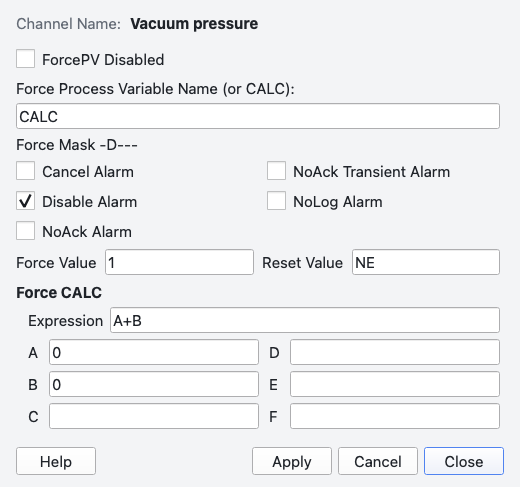
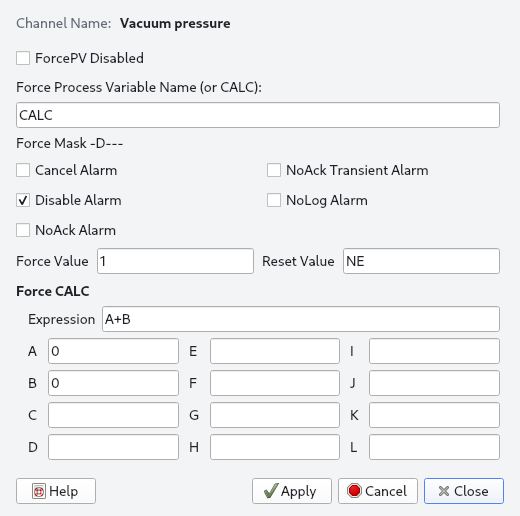
Updated after a full release audit done on GPT 6.1 Sol Ultra

diff --git a/qtalh/services/channel_access.cc b/qtalh/services/channel_access.cc
@@ -148,11 +148,11 @@ void ChannelAccess::deliverNumber(Channel* c, double value) {
       callback(value);
   }
 }
-void ChannelAccess::replayNumber(Channel* c, const void* tag) {
+void ChannelAccess::replayNumber(Channel* c, quint64 input) {
   if (c->cancelled || !c->haveNumber)
     return;
   auto found = std::find_if(c->numbers.begin(), c->numbers.end(),
-                            [&](const auto& n) { return n.tag == tag; });
+                            [&](const auto& n) { return n.id == input; });
   if (found == c->numbers.end())
     return;
   const auto callback = found->callback;
@@ -235,17 +235,18 @@ void ChannelAccess::number(const QString& n, std::function<void(double)> callbac
         auto found = tag ? std::find_if(c->numbers.begin(), c->numbers.end(),
                                         [&](const auto& number) { return number.tag == tag; })
                          : c->numbers.end();
+        const auto input = found == c->numbers.end() ? ++nextSerial : found->id;
         if (found != c->numbers.end())
           found->callback = std::move(callback);
         else
-          c->numbers.push_back({tag, std::move(callback), ++nextSerial});
+          c->numbers.push_back({tag, std::move(callback), input});
         // This input missed the monitor's first event; give it the latest
         // value later, as a new monitor would, not during this call.
-        if (c->haveNumber && tag) {
+        if (c->haveNumber) {
           Callback replay;
           replay.kind = Callback::NumberReplay;
           replay.channel = c->serial;
-          replay.tag = tag;
+          replay.input = input;
           defer(std::move(replay));
         }
         return;
@@ -340,7 +341,7 @@ void ChannelAccess::dispatch() {
     if (!c)
       continue;
     if (callback.kind == Callback::NumberReplay)
-      replayNumber(c, callback.tag);
+      replayNumber(c, callback.input);
     else if (callback.kind == Callback::Connection)
       connected(c, callback.op);
     else if (callback.kind == Callback::Access)

diff --git a/qtalh/tests/test_notifications.cc b/qtalh/tests/test_notifications.cc
@@ -420,6 +420,9 @@ private slots:
     QTest::newRow("excluded-class") << "[!x]*" << "x/pv" << false;
     QTest::newRow("literal-class-slash") << "system[/]pv" << "system/pv" << true;
     QTest::newRow("literal-bracket") << "pv[]]" << "pv]" << true;
+    QTest::newRow("unmatched-bracket") << "pv[" << "pv[" << true;
+    QTest::newRow("initial-hyphen") << "pv[-ab]" << "pv-" << true;
+    QTest::newRow("final-hyphen") << "pv[ab-]" << "pv-" << true;
     QTest::newRow("literal-regex") << "pv.+(1)" << "pv.+(1)" << true;
     QTest::newRow("no-regex-expansion") << "pv.+(1)" << "pvXYZ1" << false;
   }
@@ -439,6 +442,31 @@ private slots:
     NotificationEnvelope e;
     QCOMPARE(p.take(e, 70000), matches);
     if (matches) QCOMPARE(e.alarms[0].state.pv, pv);
+  }
+  void invalidPvWildcards_data() {
+    QTest::addColumn<QString>("pattern");
+    QTest::newRow("letters") << "[z-a]*";
+    QTest::newRow("digits") << "SR:[9-0]";
+  }
+  void invalidPvWildcards() {
+    QFETCH(QString, pattern);
+    auto s = settings();
+    s.subscriptions[0].wildcard = pattern;
+    QVERIFY_THROWS_EXCEPTION(std::runtime_error, validateNotifications(s));
+    QVERIFY_THROWS_EXCEPTION(std::runtime_error,
+                             parseNotifications(QJsonDocument(notificationJson(s)).toJson()));
+    NotificationPolicy policy;
+    configure(policy);
+    QVERIFY_THROWS_EXCEPTION(std::runtime_error, policy.configure(s, "/test.alh"));
+    QCOMPARE(policy.settings().subscriptions[0].wildcard, QString("*"));
+    const auto config = "GROUP NULL root\n$NOTIFY_WEBHOOK ops http://127.0.0.1:1/test\n"
+                        "$NOTIFY MAJOR ops pv=" + pattern + "\nCHANNEL root pv\n";
+    try {
+      parseConfig(config);
+      QFAIL("Invalid wildcard range accepted in configuration");
+    } catch (const ParseError& e) {
+      QVERIFY(QString::fromUtf8(e.what()).startsWith("Line 3: $NOTIFY pv= has an invalid wildcard"));
+    }
   }
   void scopesAndDuplicateReload() {
     NotificationPolicy p;

diff --git a/qtalh/tests/test_ioc.cc b/qtalh/tests/test_ioc.cc
@@ -826,6 +826,48 @@ private slots:
     QTest::qWait(200);
     QCOMPARE(values, before + 1 + tail.size());
   }
+  void numericReplayTracksInputs() {
+    // A queued initial value belongs to its input, even if a later input
+    // reuses the owner tag. Default-owner inputs must receive it too.
+    const auto name = prefix + "force";
+    ChannelAccess driver;
+    driver.prepare(name);
+    QTRY_VERIFY(driver.put(name, 2));
+    ChannelAccess ca;
+    int anchor = 0, owner = 0;
+    QVector<double> initial;
+    ca.number(name, [&](double v) { initial << v; }, &anchor);
+    QTRY_COMPARE(initial, QVector<double>{2});
+    int removed = 0, replacement = 0;
+    ca.number(name, [&](double) { ++removed; }, &owner);
+    ca.cancelNumbers(&owner);
+    ca.number(name, [&](double v) { QCOMPARE(v, 2.0); ++replacement; }, &owner);
+    QCOMPARE(removed, 0);
+    QCOMPARE(replacement, 0);
+    ca.poll();
+    QCOMPARE(removed, 0);
+    QCOMPARE(replacement, 1);
+    ca.cancelNumbers(&owner);
+    int cancelled = 0;
+    ca.number(name, [&](double) { ++cancelled; });
+    ca.cancelNumbers(nullptr);
+    QVector<double> first, second;
+    ca.number(name, [&](double v) { first << v; });
+    ca.number(name, [&](double v) { second << v; });
+    QVERIFY(first.isEmpty());
+    QVERIFY(second.isEmpty());
+    QTRY_COMPARE(first, QVector<double>{2});
+    QTRY_COMPARE(second, QVector<double>{2});
+    QCOMPARE(cancelled, 0);
+    QCOMPARE(ChannelAccessTestAccess::channelCount(ca), 1);
+    ca.cancelNumbers(nullptr);
+    QVERIFY(driver.put(name, 5));
+    QTRY_COMPARE(initial, (QVector<double>{2, 5}));
+    QCOMPARE(first, QVector<double>{2});
+    QCOMPARE(second, QVector<double>{2});
+    QCOMPARE(cancelled, 0);
+    QVERIFY(driver.put(name, 0));
+  }
   void forceInputsShareOneChannel() {
     // Inputs reading one PV share its channel. One added later receives the
     // latest value after the call returns, as a new monitor would.

diff --git a/qtalh/tests/test_pva.cc b/qtalh/tests/test_pva.cc
@@ -891,6 +891,45 @@ private slots:
     output->writer->ready();
     QTRY_COMPARE(output->writer->submitted, QVector<double>{2});
   }
+  void numericReplayTracksInputs() {
+    // A queued initial value belongs to its input, even if a later input
+    // reuses the owner tag. Default-owner inputs must receive it too.
+    PvAccess pv;
+    int anchor = 0, owner = 0;
+    QVector<double> initial;
+    pv.number("pva://input", [&](double v) { initial << v; }, &anchor);
+    auto monitor = provider->channels.back()->monitor;
+    monitor->post(5);
+    QTRY_COMPARE(initial, QVector<double>{5});
+    int removed = 0, replacement = 0;
+    pv.number("pva://input", [&](double) { ++removed; }, &owner);
+    pv.cancelNumbers(&owner);
+    pv.number("pva://input", [&](double v) { QCOMPARE(v, 5.0); ++replacement; }, &owner);
+    QCOMPARE(removed, 0);
+    QCOMPARE(replacement, 0);
+    QTest::qWait(50);
+    QCOMPARE(removed, 0);
+    QCOMPARE(replacement, 1);
+    pv.cancelNumbers(&owner);
+    int cancelled = 0;
+    pv.number("pva://input", [&](double) { ++cancelled; });
+    pv.cancelNumbers(nullptr);
+    QVector<double> first, second;
+    pv.number("pva://input", [&](double v) { first << v; });
+    pv.number("pva://input", [&](double v) { second << v; });
+    QVERIFY(first.isEmpty());
+    QVERIFY(second.isEmpty());
+    QTRY_COMPARE(first, QVector<double>{5});
+    QTRY_COMPARE(second, QVector<double>{5});
+    QCOMPARE(cancelled, 0);
+    QCOMPARE(provider->channels.size(), size_t(1));
+    pv.cancelNumbers(nullptr);
+    monitor->post(6);
+    QTRY_COMPARE(initial, (QVector<double>{5, 6}));
+    QCOMPARE(first, QVector<double>{5});
+    QCOMPARE(second, QVector<double>{5});
+    QCOMPARE(cancelled, 0);
+  }
   void forceInputsShareOneChannel() {
     // Inputs reading one PV share its channel. One added later receives the
     // latest value after the call returns, as a new monitor would.

diff --git a/qtalh/services/pv_access.cc b/qtalh/services/pv_access.cc
@@ -628,19 +628,20 @@ void PvAccess::number(const QString& n, std::function<void(double)> callback, co
       auto found = tag ? std::find_if(c->numbers.begin(), c->numbers.end(),
                                       [&](const auto& number) { return number.tag == tag; })
                        : c->numbers.end();
+      const auto input = found == c->numbers.end() ? ++nextId : found->id;
       if (found != c->numbers.end())
         found->callback = std::move(callback);
       else
-        c->numbers.push_back({tag, std::move(callback), ++nextId});
+        c->numbers.push_back({tag, std::move(callback), input});
       // This input missed the monitor's first sample; give it the latest one
       // later, as a new monitor would, not during this call.
-      if (c->haveNumber && tag) {
+      if (c->haveNumber) {
         const auto id = c->id;
-        QTimer::singleShot(0, this, [this, id, tag] {
+        QTimer::singleShot(0, this, [this, id, input] {
           auto c = channelsById.value(id);
           if (!c || c->cancelled || !c->haveNumber) return;
           auto found = std::find_if(c->numbers.begin(), c->numbers.end(),
-                                    [&](const auto& number) { return number.tag == tag; });
+                                    [&](const auto& number) { return number.id == input; });
           if (found == c->numbers.end()) return;
           const auto callback = found->callback;
           if (callback) callback(c->number);

diff --git a/qtalh/core/notifications.cc b/qtalh/core/notifications.cc
@@ -221,6 +221,8 @@ void validateNotifications(const NotificationSettings& s) {
             "Subscription name and saved configuration are required");
     require(r.minimumSeverity >= 1 && r.minimumSeverity <= 4 && r.cooldownSeconds >= 0,
             "Invalid subscription severity or cooldown");
+    require(QRegularExpression(pvWildcard(r.wildcard)).isValid(),
+            "Invalid notification PV wildcard");
     require(!r.stages.isEmpty(), "A subscription needs an initial stage");
     QSet<QString> stages;
     int previous = -1;
@@ -315,6 +317,8 @@ NotifyDirective parseNotify(const QString& value) {
     }
   }
   if (result.stages.isEmpty()) throw ParseError("$NOTIFY needs at least one destination");
+  if (!QRegularExpression(pvWildcard(result.wildcard)).isValid())
+    throw ParseError("$NOTIFY pv= has an invalid wildcard");
   return result;
 }
 NotificationDestination parseDestination(const QString& name, const QString& value) {

diff --git a/qtalh/services/channel_access.h b/qtalh/services/channel_access.h
@@ -91,7 +91,7 @@ private:
   void report(int, const QString&);
   void numericUnavailable(Channel*, const QString&);
   void deliverNumber(Channel*, double);
-  void replayNumber(Channel*, const void* tag);
+  void replayNumber(Channel*, quint64 input);
   struct Read;
   struct ReadItem {
     ChannelAccess* owner = nullptr;
@@ -118,7 +118,7 @@ private:
     enum Kind { Connection, Access, Update, ReadConnection, ReadValue, NumberReplay } kind = Connection;
     quint64 channel = 0, epoch = 0, read = 0;
     ReadItem* item = nullptr;
-    const void* tag = nullptr;
+    quint64 input = 0;
     long op = 0;
     int status = 0;
     long type = 0;

diff --git a/CHANGELOG.md b/CHANGELOG.md
@@ -26,6 +26,9 @@ Changes that operators and site maintainers should review before deployment:
   the environment variable `USE_SHELVING` is `1`.
 - Personal notification subscriptions with escalation, and session alarm
   analytics.
+- Optional binary SDDS alarm snapshots and analytics table/chart exports.
+  Compatible SDDS headers and libraries are detected at build time; normal
+  operation does not require SDDS.
 - Commands starting with `medm` launch `qtedm` from `PATH` instead.
 - New `--help`, `--version` and `--validate` conveniences. Unknown switches
   and Xt resource overrides are errors. A path attached to `-a`, `-o`, `-f`,
@@ -56,6 +59,10 @@ Changes that operators and site maintainers should review before deployment:
 
 Additional 1.0.0 audit decisions and corrections:
 
+- Notification subscriptions reject invalid PV wildcard ranges instead of
+  silently matching no channels.
+- Shared numeric inputs receive the latest monitored value when added, and
+  queued replays for cancelled inputs are discarded.
 - Editor Clear and Cut reject changes that would leave notification references
   unresolved. Copy and Paste carry required notification destinations between
   editor windows, reuse matching definitions and reject conflicting definitions.

diff --git a/docs/site/public/images/README.md b/docs/site/public/images/README.md
@@ -1,8 +1,10 @@
 # Screenshot provenance
 
-The modern screenshots were regenerated on 2026-10-15 with macOS, Qt 5.15.19,
-and the `offscreen` platform to restore the missing referenced assets.
-`main-window.png` retains its 2026-09-11 Linux capture.
+`modern-main.png` and `modern-force-pv.png` were refreshed on 2026-10-24
+with Linux, Qt 5.15.9, and the `offscreen` platform using the scripted captures
+below. They show the current silence colors and all twelve CALC inputs (A–L).
+The other modern screenshots retain their 2026-10-15 macOS, Qt 5.15.19
+`offscreen` captures. `main-window.png` retains its 2026-09-11 Linux capture.
 They show repository-owned synthetic test data; no
 production PVs were connected. The modern captures use the default appearance
 and its smaller default font. Native window decorations, fonts, colors, and

diff --git a/docs/site/reference/environment.md b/docs/site/reference/environment.md
@@ -35,4 +35,7 @@ Other standard `EPICS_CA_*` and `EPICS_PVA_*` variables are handled by EPICS Bas
 | Explicit `-Lfile` basename | Process working directory. |
 | Guidance filename | Document directory. |
 
-Absolute paths bypass directory joining. The C++ `loadConfig` API has a separate default: without an explicit configuration directory, includes resolve against the top-level file's directory.
+Absolute paths bypass directory joining. Configuration filenames and `-a`/`-o`
+log filenames beginning with `./` or `../` also resolve from the process working
+directory, bypassing `-f`/`ALARMHANDLER` or `-l` respectively. Relative INCLUDE
+filenames still use the configured directory. The C++ `loadConfig` API has a separate default: without an explicit configuration directory, includes resolve against the top-level file's directory.

diff --git a/docs/qtalh-user-guide.md b/docs/qtalh-user-guide.md
@@ -244,7 +244,8 @@ plugins from a separate SDK. On Windows, `COMSPEC` selects the command shell
 (default `cmd.exe`). Sound paths and an explicit relative `-Lfile` basename
 resolve from the process working directory, rather than `-f` or `-l`.
 Unknown switches and arbitrary Xt resource overrides are errors. CDEV and
-CMLOG extensions are not supported by QtALH. A path may follow `-a`, `-o`,
+CMLOG extensions are not supported by QtALH; the legacy `-aCM` and `-oCM`
+CMLOG switches are rejected. A path may follow `-a`, `-o`,
 `-f`, `-l` or `-p` without a space when it starts with `/` or `.`, as in
 `-p/usr/share/sounds/freedesktop/stereo/bell.oga`; ALH rejects that form.
 If the configuration file does not exist, QtALH prints the path it looked

diff --git a/examples/feature-lab/README.md b/examples/feature-lab/README.md
@@ -91,6 +91,16 @@ per line. It is a capture receiver, not a simulation of email or Slack/Teams del
 
 ## Test timed shelving
 
+Shelving is hidden by default. To try this optional exercise, quit the lab and
+restart it with shelving enabled:
+
+```sh
+USE_SHELVING=1 python3 examples/feature-lab/run.py
+```
+
+Retain any `--epics-bin`, port, or other options you used above. This enables
+the shelving menus only for the lab process.
+
 1. Enter `maintenance`; select the maintenance channel under **Diagnostics**.
 2. Choose **Action → Shelve Alarms…**, choose **Custom minutes**, enter **1**, and
    enter your username and a reason such as `Lab maintenance`. Apply it.
